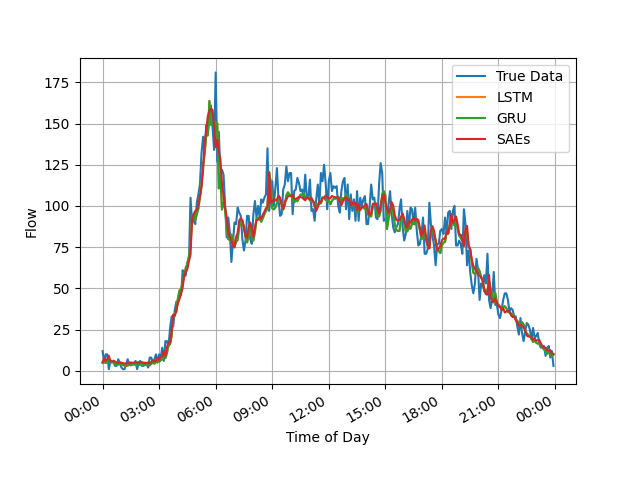
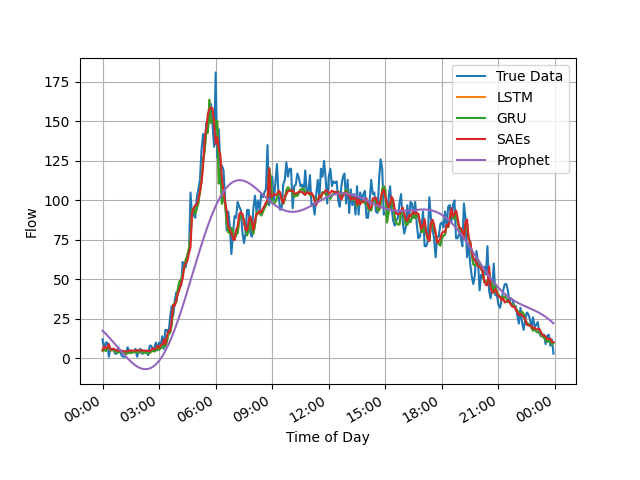
Added Prophet Algorithm

diff --git a/main.py b/main.py
@@ -11,6 +11,8 @@ from keras.utils.vis_utils import plot_model
 import sklearn.metrics as metrics
 import matplotlib as mpl
 import matplotlib.pyplot as plt
+from  comp_prophet import *
+
 warnings.filterwarnings("ignore")
 
 
@@ -97,13 +99,15 @@ def main():
     lstm = load_model('model/lstm.h5')
     gru = load_model('model/lstm.h5')
     saes = load_model('model/saes.h5')
+    
     models = [lstm, gru, saes]
     names = ['LSTM', 'GRU', 'SAEs']
 
     lag = 12
     file1 = 'data/train.csv'
     file2 = 'data/test.csv'
-    _, _, X_test, y_test, scaler = process_data(file1, file2, lag)
+
+    X_train, y_train, X_test, y_test, scaler = process_data(file1, file2, lag)
     y_test = scaler.inverse_transform(y_test.reshape(-1, 1)).reshape(1, -1)[0]
 
     y_preds = []
@@ -118,7 +122,22 @@ def main():
         predicted = scaler.inverse_transform(predicted.reshape(-1, 1)).reshape(1, -1)[0]
         y_preds.append(predicted[:288])
         print(name)
+        # print(predicted)
+        # print(type(predicted))
+        # print(predicted.shape)
+        # print(y_test)
         eva_regress(y_test, predicted)
+        
+    # Prophet 
+    # df1=pd.DataFrame({'ds': X_train, 'y': y_train.tolist()}, columns=['ds', 'y'])
+    # df2=pd.DataFrame({'ds': X_test, 'y': y_test.tolist()}, columns=['ds', 'y'])
+
+    prophet_prediction=get_prophet(file1,file2)
+
+    print("Prophet")
+    eva_regress(y_test,prophet_prediction)
+    y_preds.append(prophet_prediction[:288])
+    names.append("Prophet")
 
     plot_results(y_test[: 288], y_preds, names)
 

diff --git a/comp_prophet.py b/comp_prophet.py
@@ -1,0 +1,37 @@
+import pandas as pd
+import fbprophet as Prophet
+import time
+from sklearn.preprocessing import StandardScaler, MinMaxScaler
+
+
+def get_prophet(train,test):
+    df1 = pd.read_csv(train, encoding='utf-8', usecols=["5 Minutes","Lane 1 Flow (Veh/5 Minutes)"]).fillna(0)
+    df2 = pd.read_csv(test, encoding='utf-8',usecols=["5 Minutes","Lane 1 Flow (Veh/5 Minutes)"]).fillna(0)
+    df1 = df1.rename(columns = {'5 Minutes':'ds','Lane 1 Flow (Veh/5 Minutes)':'y'})
+    df2 = df2.rename(columns = {'5 Minutes':'ds','Lane 1 Flow (Veh/5 Minutes)':'y'})
+    df2 = df2[12:]
+    # df1=X_train
+    # df2=Y_train
+    df1['ds'] = pd.to_datetime(df1['ds'])
+    df2['ds'] = pd.to_datetime(df2['ds'])
+    scaler= MinMaxScaler(feature_range=(0, 1)).fit(df1['y'].values.reshape(-1, 1))
+    df1['y'] = scaler.transform(df1['y'].values.reshape(-1, 1)).reshape(1, -1)[0]
+
+    print(df1)
+    model = Prophet.Prophet(changepoint_prior_scale=0.01)
+    start = time.time()
+    model.fit(df1)
+    end = time.time()
+    print('Time Required :', end-start,'seconds')
+    print("Predicting...")
+    predicted=(model.predict(df2.iloc[:,0:1])['yhat']).to_numpy()
+    predicted=scaler.inverse_transform(predicted.reshape(-1, 1)).reshape(1, -1)[0]
+    print(predicted)
+    # predicted = (model.predict(df2.iloc[:,0:1])['yhat']).to_numpy()
+    # print(df2['y'])
+    # print(predicted)
+    # print(type(predicted))
+    # print(predicted.shape)
+    return predicted
+
+# get_prophet("data/train.csv","data/test.csv")

diff --git a/train.py b/train.py
@@ -91,6 +91,7 @@ def main(argv):
     file2 = 'data/test.csv'
     X_train, y_train, _, _, _ = process_data(file1, file2, lag)
 
+        
     if args.model == 'lstm':
         X_train = np.reshape(X_train, (X_train.shape[0], X_train.shape[1], 1))
         m = model.get_lstm([12, 64, 64, 1])

diff --git a/model/model.py b/model/model.py
@@ -4,6 +4,9 @@ Defination of NN model
 from keras.layers import Dense, Dropout, Activation
 from keras.layers.recurrent import LSTM, GRU
 from keras.models import Sequential
+import pandas as pd
+
+
 
 
 def get_lstm(units):
